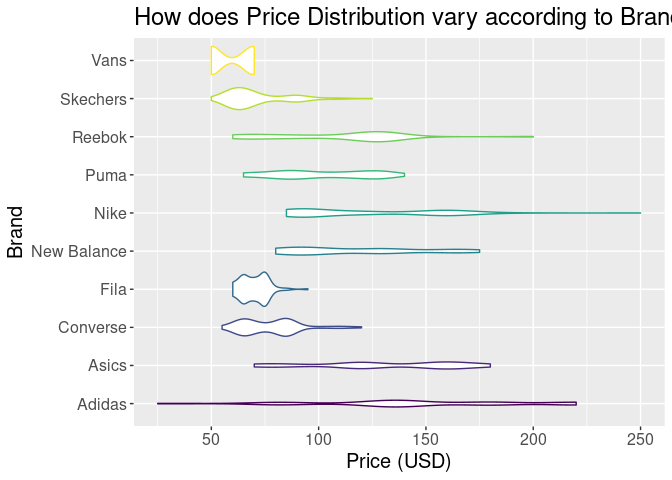
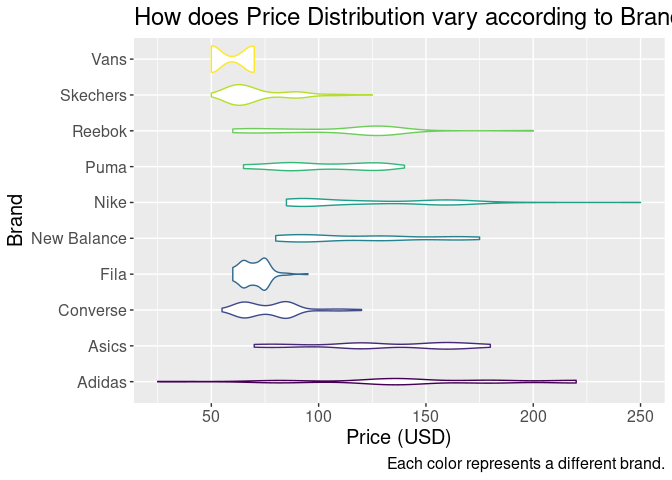
shoelati updates

diff --git a/README.md b/README.md
@@ -8,17 +8,17 @@
 <!-- badges: start -->
 <!-- badges: end -->
 
-shoelati uses data on shoes collected from a particular region to
-understand the relationships between the variables in the data and how
-they influence one another. This package makes visualizations which are
-more accessible, conclusive, and fun. Specifically, it uses package uses
-packages such as viridis to make the visualizations more accessible for
-all individuals, including those who suffer from colorblindness. It also
-performs commmon summary functions to find trends in numeric variables
-after grouping or filtering by numeric or categorical variables.
-Finally, it demonstrates how we can use geoms such as emojis to make
-more fun graphs, while also uncovering how general shoe types can
-cluster in particular variables.
+shoelati uses data on shoes collected from a particular region (last
+updated two months ago) to understand the relationships between the
+variables in the data and how they influence one another. This package
+makes visualizations which are more accessible, conclusive, and fun.
+Specifically, it uses package uses packages such as viridis to make the
+visualizations more accessible for all individuals, including those who
+suffer from colorblindness. It also performs commmon summary functions
+to find trends in numeric variables after grouping or filtering by
+numeric or categorical variables. Finally, it demonstrates how we can
+use geoms such as emojis to make more fun graphs, while also uncovering
+how general shoe types can cluster in particular variables.
 
 ## Installation
 
@@ -31,21 +31,20 @@ devtools::install_github("harvard-stat108s23/shoelati")
 ```
 
 \##Exploring the data Let’s first explore the different variables in the
-data!
+data and their diverse range of inputs.
 
 ``` r
 library(shoelati)
-library(tidyverse)
-#> ── Attaching core tidyverse packages ──────────────────────── tidyverse 2.0.0 ──
-#> ✔ dplyr     1.1.0     ✔ readr     2.1.4
-#> ✔ forcats   1.0.0     ✔ stringr   1.5.0
-#> ✔ ggplot2   3.4.1     ✔ tibble    3.1.8
-#> ✔ lubridate 1.9.2     ✔ tidyr     1.3.0
-#> ✔ purrr     1.0.1     
-#> ── Conflicts ────────────────────────────────────────── tidyverse_conflicts() ──
-#> ✖ dplyr::filter() masks stats::filter()
-#> ✖ dplyr::lag()    masks stats::lag()
-#> ℹ Use the ]8;;http://conflicted.r-lib.org/conflicted package]8;; to force all conflicts to become errors
+library(ggplot2)
+library(dplyr)
+#> 
+#> Attaching package: 'dplyr'
+#> The following objects are masked from 'package:stats':
+#> 
+#>     filter, lag
+#> The following objects are masked from 'package:base':
+#> 
+#>     intersect, setdiff, setequal, union
 ```
 
 ``` r
@@ -114,7 +113,8 @@ ggplot(data = shoelati, mapping = aes(x = price_usd, y = brand, color = brand)) 
   scale_color_viridis(discrete = TRUE) +
   labs(title = "How does Price Distribution vary according to Brand",
        x = "Price (USD)",
-       y = "Brand") +
+       y = "Brand",
+       caption = "Each color represents a different brand.") +
   theme(text = element_text(size = 15))
 ```
 
